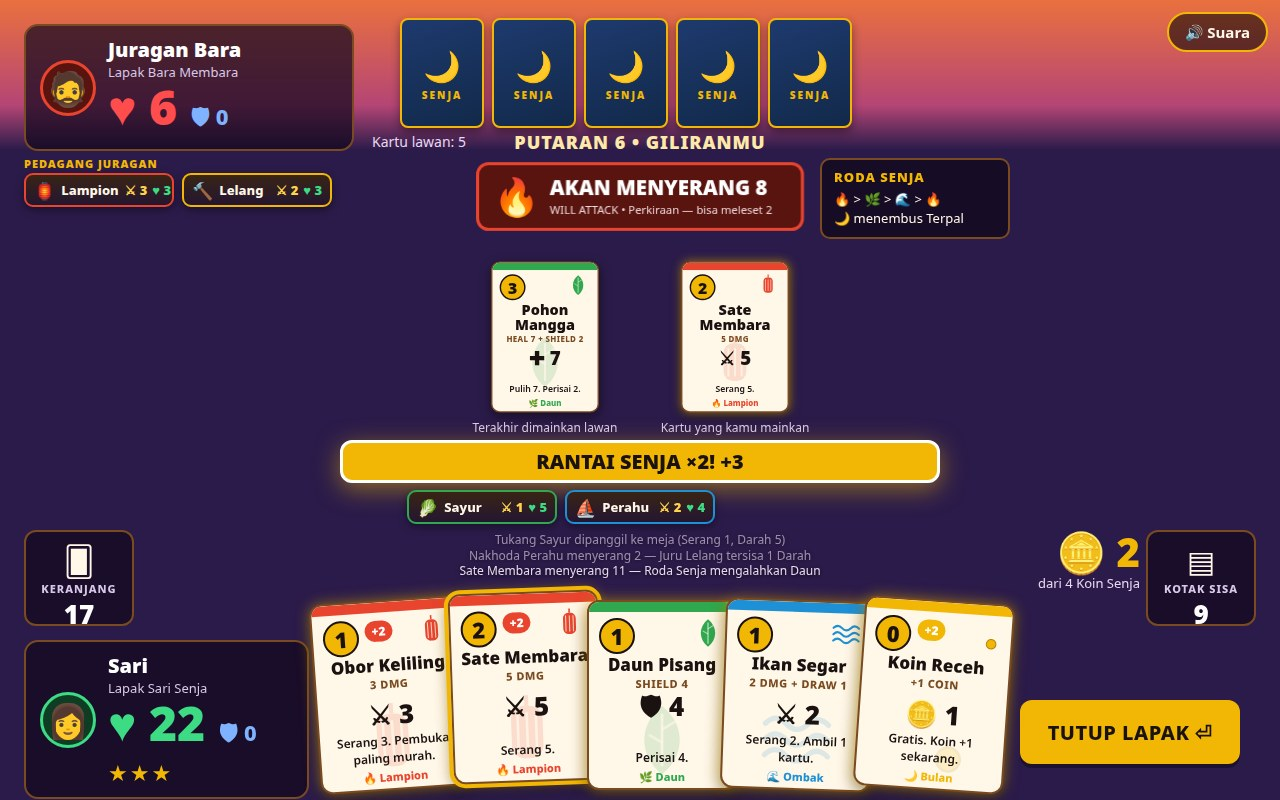
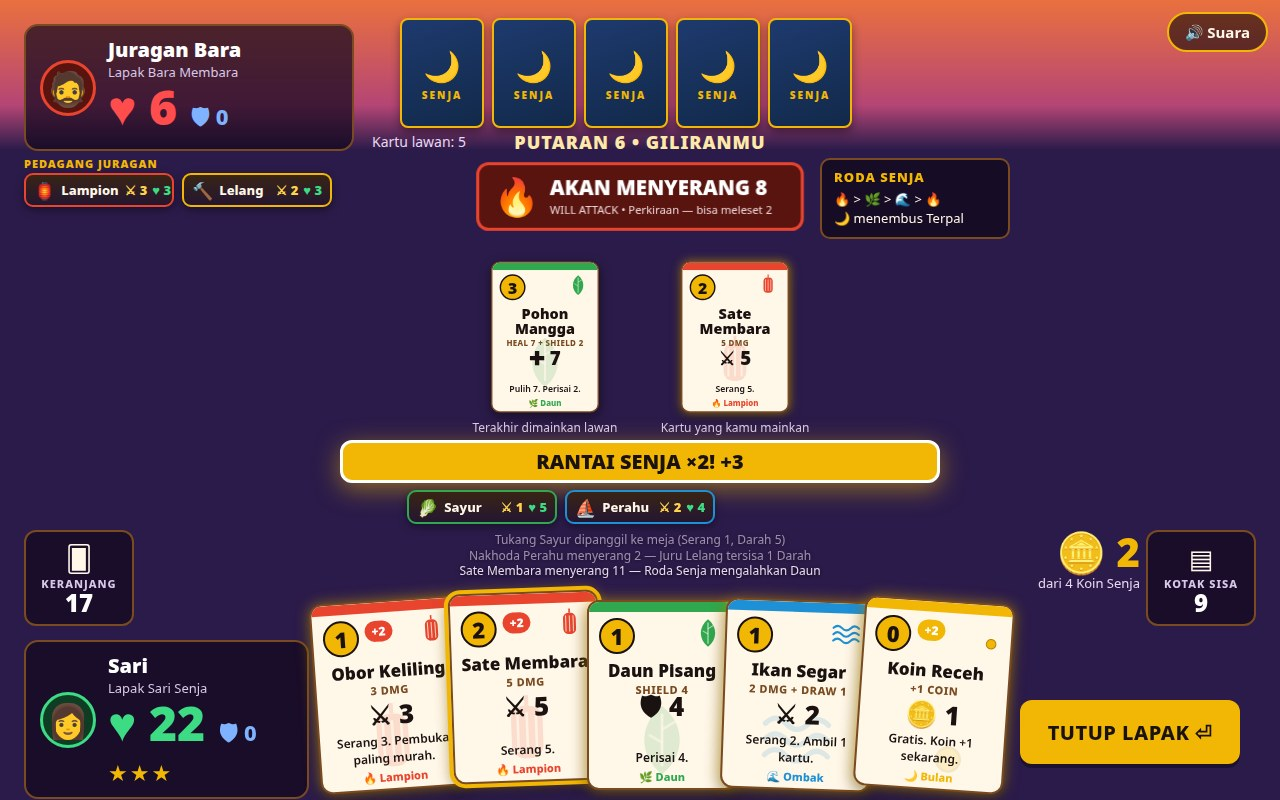
Senja di Pasar v3.2 — Perbaiki angka menyentuh garis kotak + lingkaran biaya menyentuh nama kartu (make.fun best card game)

diff --git a/game/css/style.css b/game/css/style.css
@@ -310,9 +310,9 @@ body[data-shot="table"] .floating-damage { animation: none; opacity: 1; transfor
 }
 .deck-pile { left: 24px; top: 530px; }
 .discard-pile { left: 1146px; top: 530px; }
-.pile-cards { font-size: 30px; }
+.pile-cards { font-size: 26px; }
 .pile-label { font-size: 11px; font-weight: 800; letter-spacing: 1px; color: #D8C8E8; }
-.pile-count { font-size: 26px; font-weight: 900; color: #fff; }
+.pile-count { font-size: 24px; font-weight: 900; color: #fff; line-height: 1; }
 
 .senja-badge {
   position: absolute; left: 370px; top: 648px;
@@ -380,7 +380,7 @@ body[data-shot="table"] .floating-damage { animation: none; opacity: 1; transfor
 .card-icon { position: absolute; top: 14px; right: 10px; width: 34px; height: 34px; }
 .card-icon svg { width: 100%; height: 100%; }
 .card-name {
-  margin-top: 44px; padding: 0 8px;
+  margin-top: 50px; padding: 0 8px;
   font-size: 20px; font-weight: 900; line-height: 1.05; text-align: center;
 }
 .card-en { text-align: center; font-size: 11px; font-weight: 800; color: #7A4A21; letter-spacing: .5px; margin-top: 2px; }
@@ -413,7 +413,10 @@ body[data-shot="table"] .floating-damage { animation: none; opacity: 1; transfor
 .title-cards .card:hover { transform: none; }
 .title-cards .card:nth-child(1):hover { transform: rotate(-6deg); }
 .title-cards .card:nth-child(3):hover { transform: rotate(6deg); }
-.title-cards .card-name { font-size: 17px; margin-top: 38px; }
+.title-cards .card-name { font-size: 17px; margin-top: 42px; }
+/* Lingkaran biaya kartu contoh lebih kecil + lebih ke pojok supaya tidak
+   menyentuh nama kartu (v3.1: lingkaran 36px menumpang "Panen Raya" 4px). */
+.title-cards .card-cost { top: 12px; left: 8px; width: 30px; height: 30px; font-size: 18px; }
 .title-cards .card-big { font-size: 22px; bottom: 50px; }
 .title-cards .card-text { font-size: 11px; }
 
